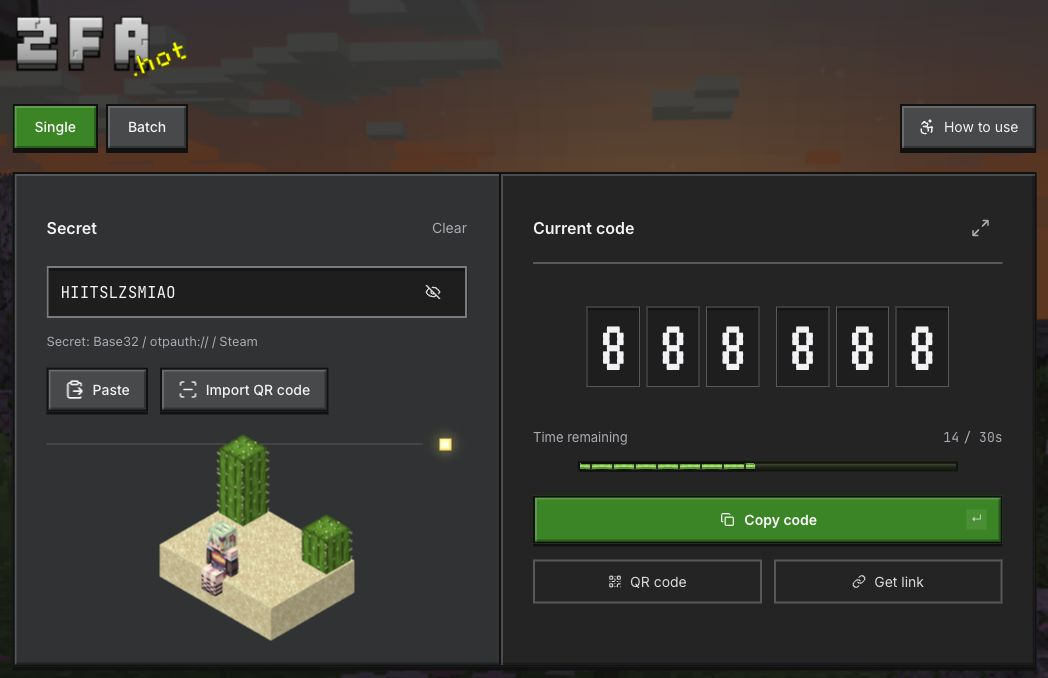
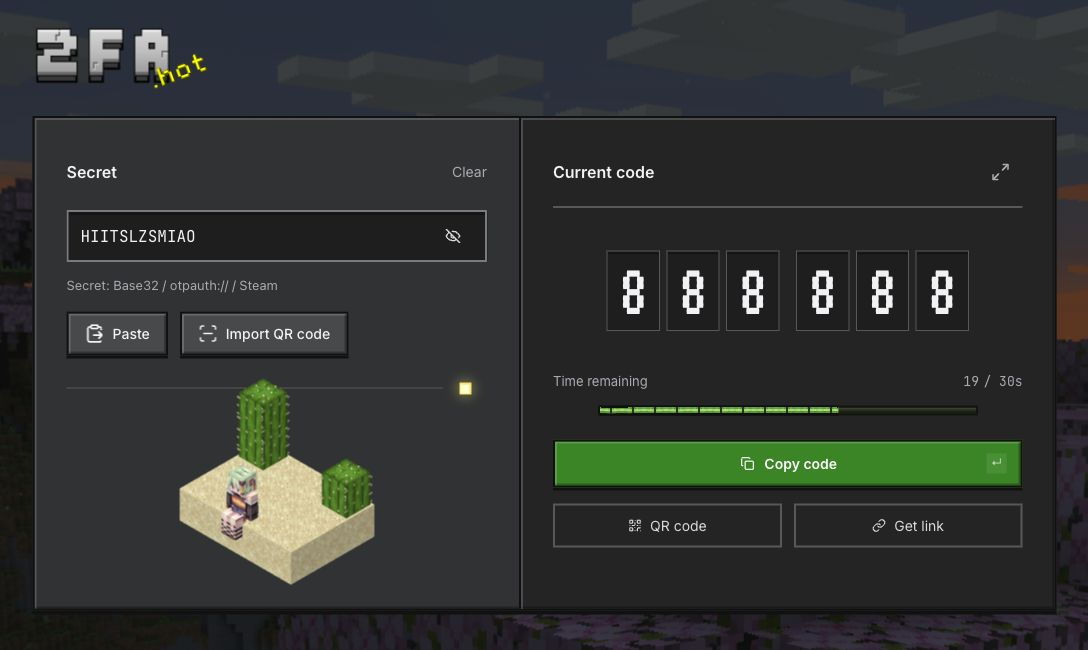
docs: refine multilingual README layout and showcase images

diff --git a/README.md b/README.md
@@ -10,7 +10,11 @@
 
 <!-- website:intro:end -->
 
-[繁體中文](README.md) / [简体中文](docs/readme/README.zh-CN.md) / [English](docs/readme/README.en.md) · [開始使用](https://2fa.hot/zh-TW) / [使用說明](https://2fa.hot/zh-TW/help) / [安全漏洞回報](.github/SECURITY.md)
+<br>
+
+[English](docs/readme/README.en.md) · [简体中文](docs/readme/README.zh-CN.md) · **繁體中文**
+
+[開始使用](https://2fa.hot/zh-TW) · [使用說明](https://2fa.hot/zh-TW/help) · [安全漏洞回報](.github/SECURITY.md)
 
 ![Nuxt](https://img.shields.io/badge/Nuxt-4-00DC82?style=flat-square&logo=nuxt&logoColor=white)
 ![TypeScript](https://img.shields.io/badge/TypeScript-5-3178C6?style=flat-square&logo=typescript&logoColor=white)

diff --git a/docs/readme/README.zh-CN.md b/docs/readme/README.zh-CN.md
@@ -10,7 +10,11 @@
 
 <!-- website:intro:end -->
 
-[繁體中文](../../README.md) / [简体中文](README.zh-CN.md) / [English](README.en.md) · [开始使用](https://2fa.hot/zh-CN) / [使用说明](https://2fa.hot/zh-CN/help) / [安全漏洞报告](../../.github/SECURITY.md)
+<br>
+
+[English](README.en.md) · **简体中文** · [繁體中文](../../README.md)
+
+[开始使用](https://2fa.hot/zh-CN) · [使用说明](https://2fa.hot/zh-CN/help) · [安全漏洞报告](../../.github/SECURITY.md)
 
 ![Nuxt](https://img.shields.io/badge/Nuxt-4-00DC82?style=flat-square&logo=nuxt&logoColor=white)
 ![TypeScript](https://img.shields.io/badge/TypeScript-5-3178C6?style=flat-square&logo=typescript&logoColor=white)

diff --git a/docs/readme/README.en.md b/docs/readme/README.en.md
@@ -12,7 +12,11 @@ More features are being integrated…
 
 <!-- website:intro:end -->
 
-[繁體中文](../../README.md) / [简体中文](README.zh-CN.md) / [English](README.en.md) · [Start](https://2fa.hot) / [Help](https://2fa.hot/help) / [Security](../../.github/SECURITY.md)
+<br>
+
+**English** · [简体中文](README.zh-CN.md) · [繁體中文](../../README.md)
+
+[Start](https://2fa.hot) · [Help](https://2fa.hot/help) · [Security](../../.github/SECURITY.md)
 
 ![Nuxt](https://img.shields.io/badge/Nuxt-4-00DC82?style=flat-square&logo=nuxt&logoColor=white)
 ![TypeScript](https://img.shields.io/badge/TypeScript-5-3178C6?style=flat-square&logo=typescript&logoColor=white)
